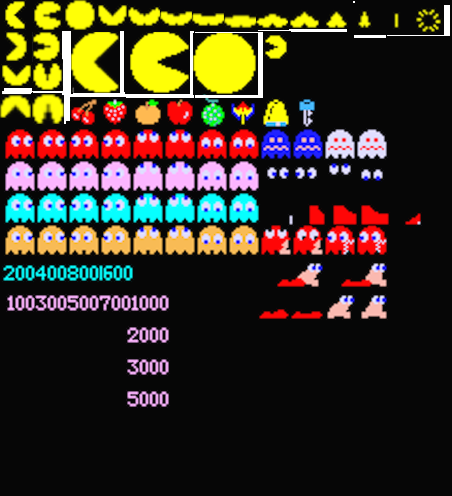
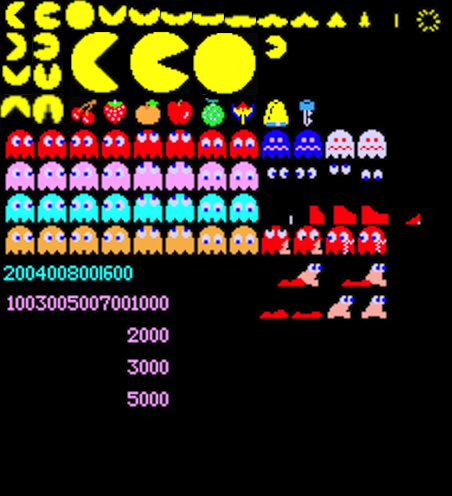
added color keying to load image function

diff --git a/texture.cpp b/texture.cpp
@@ -34,9 +34,8 @@ void Texture::load_image(std::string path)
         printf( "Couldn't load text surface.  Error: %s\n", IMG_GetError() );
     else
     {
-        //grab dimensions from surface
-        width = surface->w;
-        height = surface->h;
+        //make pacman spritesheet background pixels transparent
+        SDL_SetColorKey( surface, SDL_TRUE, SDL_MapRGB(surface->format, 0, 0, 0) );
         
         //create texture from surface
         texture = SDL_CreateTextureFromSurface( renderer, surface);
@@ -44,6 +43,13 @@ void Texture::load_image(std::string path)
         //error check
         if ( texture == NULL )
             printf( "Couldn't create texture from surface. Error: %s\n", IMG_GetError() );
+        
+        else
+        {
+            //grab dimensions from surface
+            width = surface->w;
+            height = surface->h;
+        }
     }
     
     //free unneeded surface
@@ -62,16 +68,19 @@ void Texture::load_text(TTF_Font* font, SDL_Color color, std::string text)
     
     else
     {
-        //grab dimensions from surface
-        width = surface->w;
-        height = surface->h;
-        
         //create texture from surface
         texture = SDL_CreateTextureFromSurface( renderer, surface );
         
         //error check
         if ( texture == NULL )
             printf( "Couldn't create texture out of surface. Error: %s\n", SDL_GetError() );
+        
+        else
+        {
+            //grab dimensions from surface
+            width = surface->w;
+            height = surface->h;
+        }
     }
     
     //free unneeded surface
